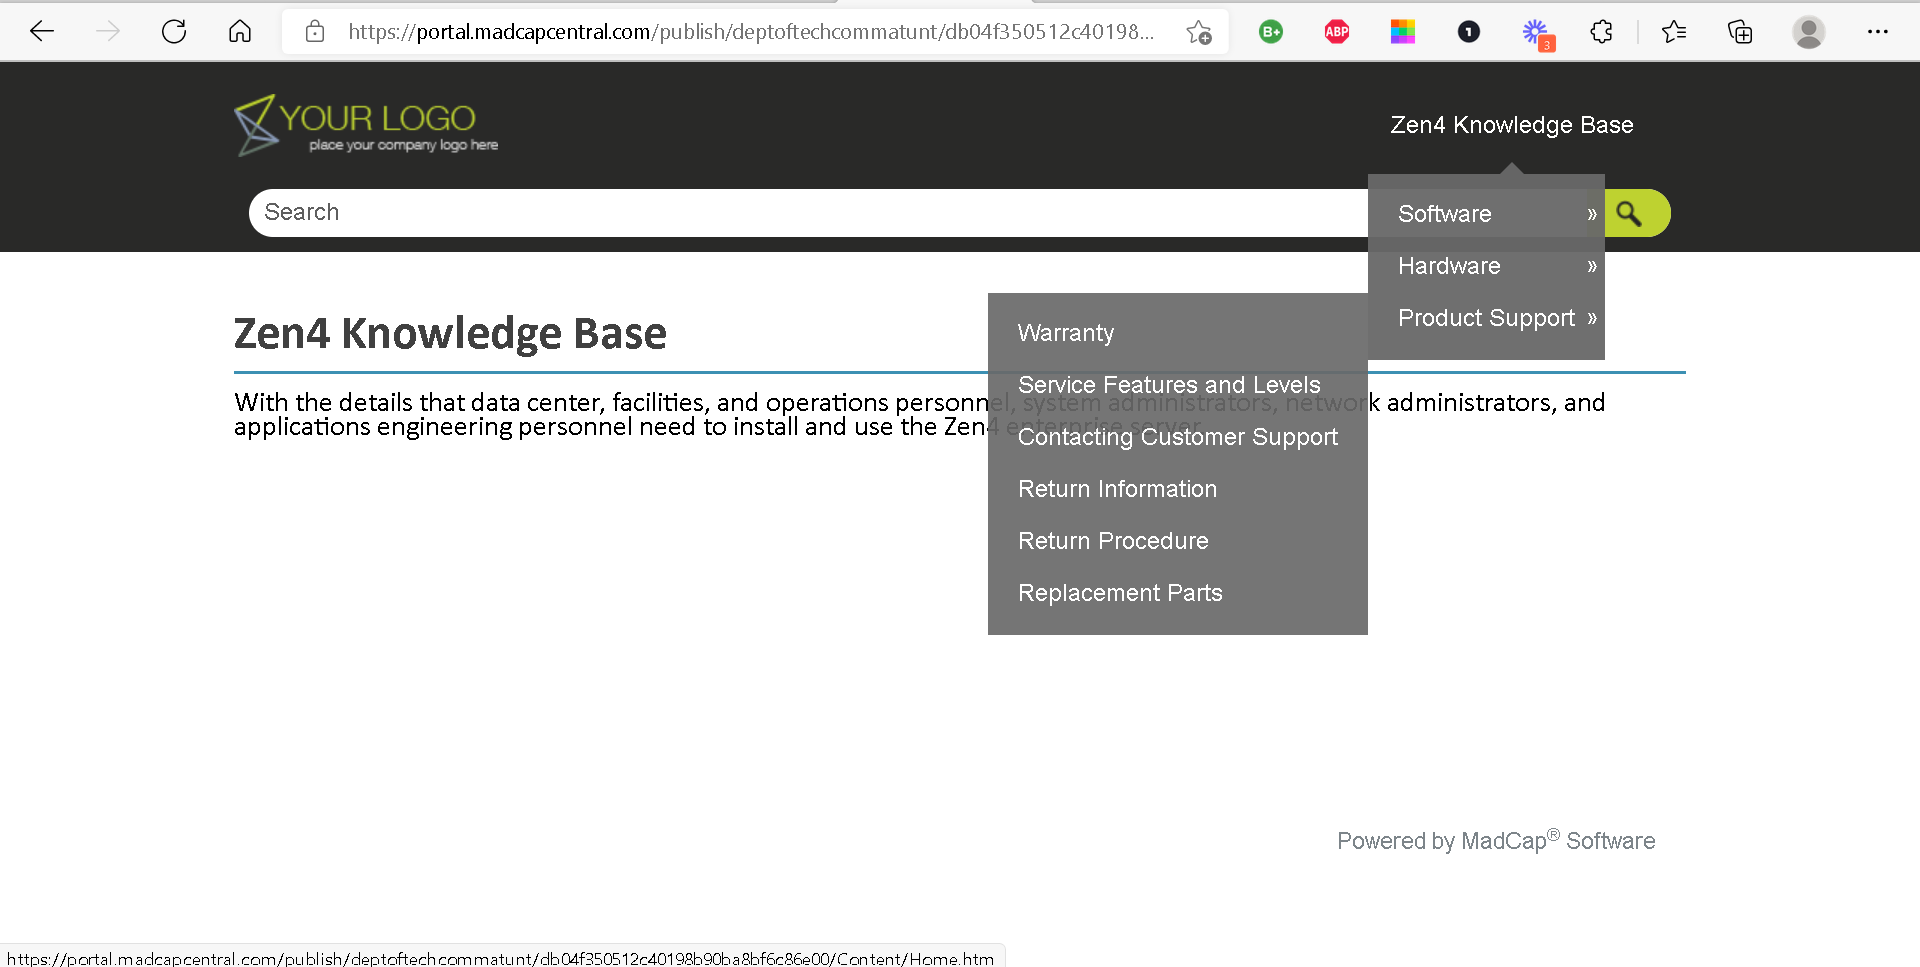
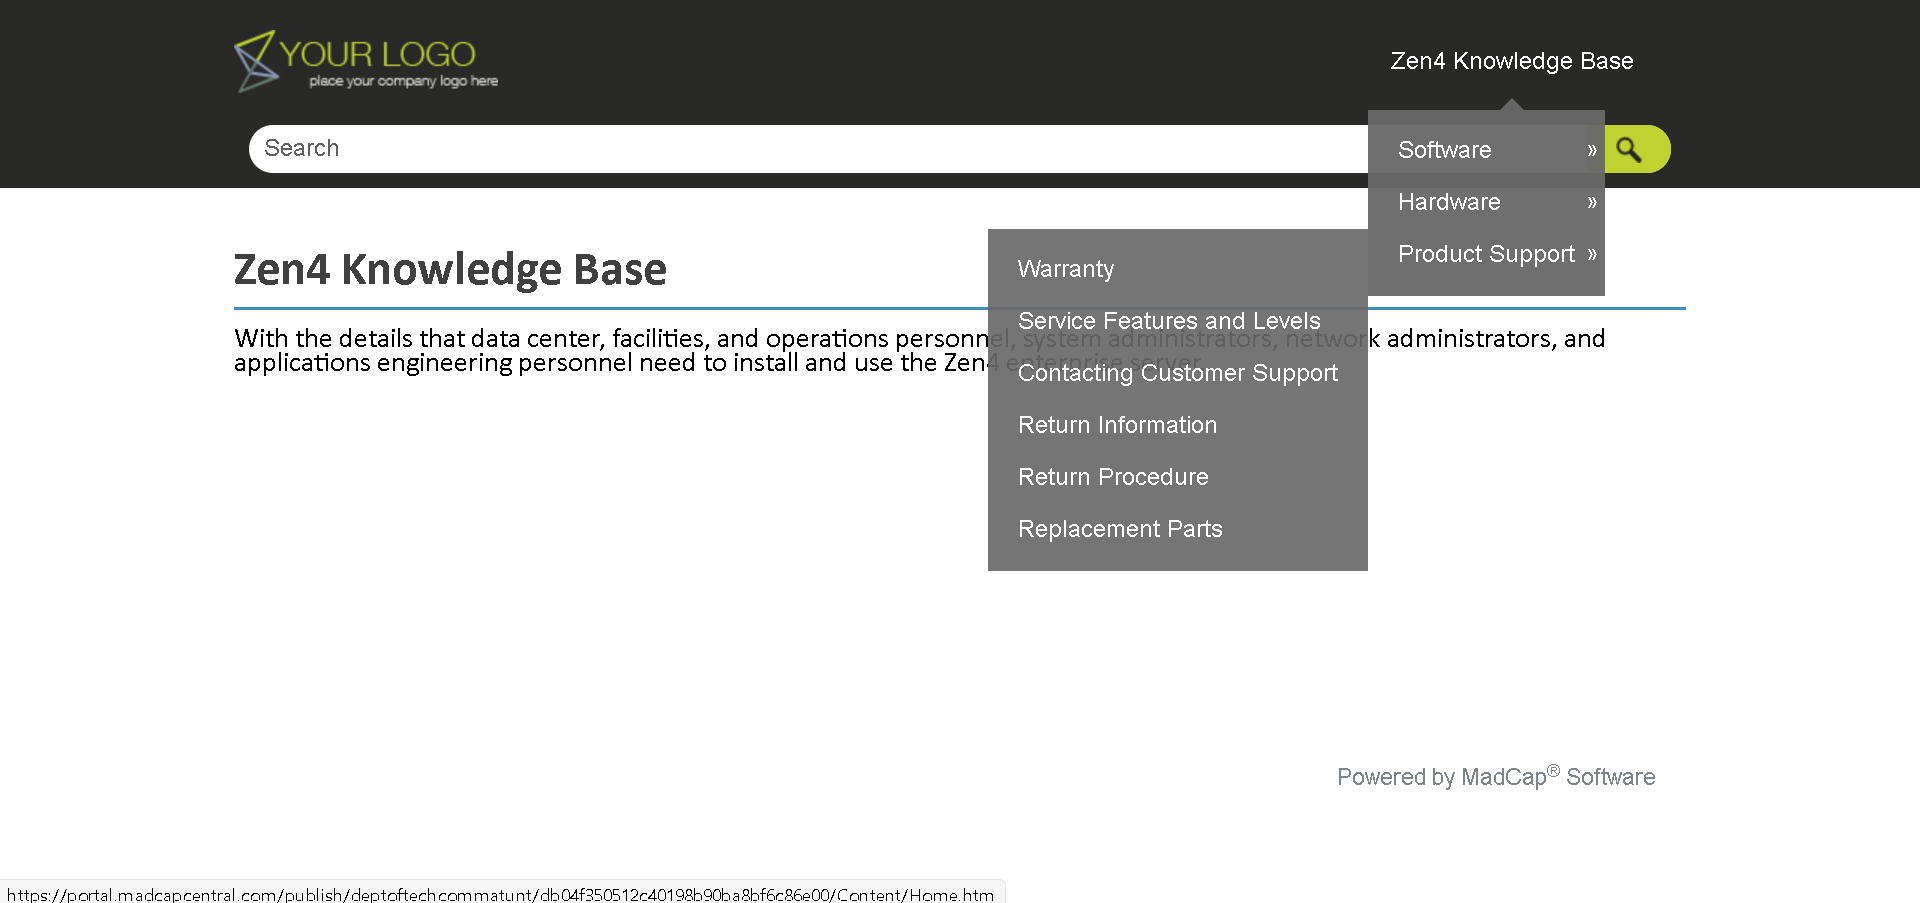
added more zen4 photos

diff --git a/artifact1.html b/artifact1.html
@@ -54,8 +54,12 @@
 							<p>							In my TECM 5191 class, I worked in a group to edit content and use single-sourcing methods to publish that content. I was responsible for the HTML portion.</p>
 							<h2> Task </h2>
 							<p>The main goal of the the project was to practice single-sourcing through MadCap Flare. We were responsible for outputting two PDFs and one HTML page. These publications were to consist of instructions for a hypothetical server called “Zen4”. Within these instructions were the “Hardware”, “Software” and appendices (labeled as “Product support” online). </p>
+
+							<span class="image main"><img src="images/Zen4_one.png" alt="" /></span>
 							<h2>Action </h2>
 								<p> My main duty for this project was to isolate the software and hardware guides into two different sections of navigational tabs, along with a product support section. These were all located under the “Zen4 Knowledge Base”.  </p>
+
+							<span class="image main"><img src="images/Zen4_three.png" alt="" /></span>	
 							<h2> Result </h2> 
 								<p> This led me to create a functional, online knowledge base that paired with two printable and instructional PDFs. My end product allowed users to navigate swiftly through the guides by using navigational arrows and linked table of contents. This enabled users to enhance their ability to find the relevant information they needed without the usage of printable instruction guides. </p>
 								
